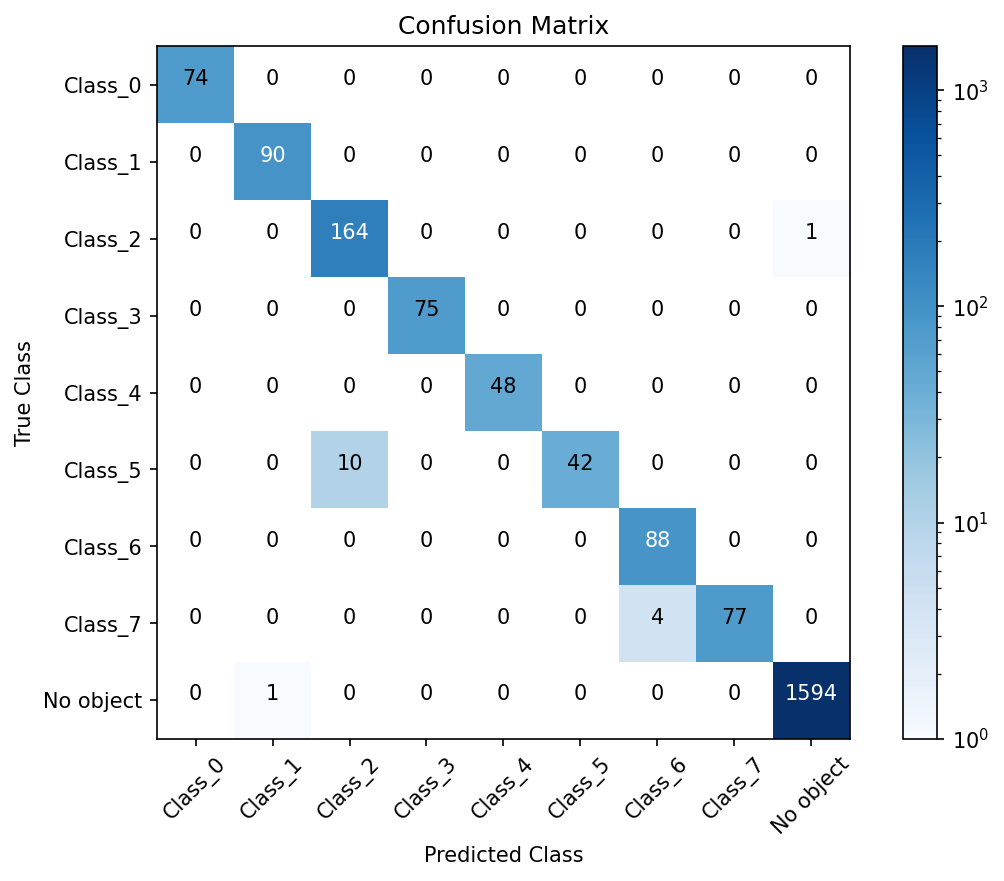
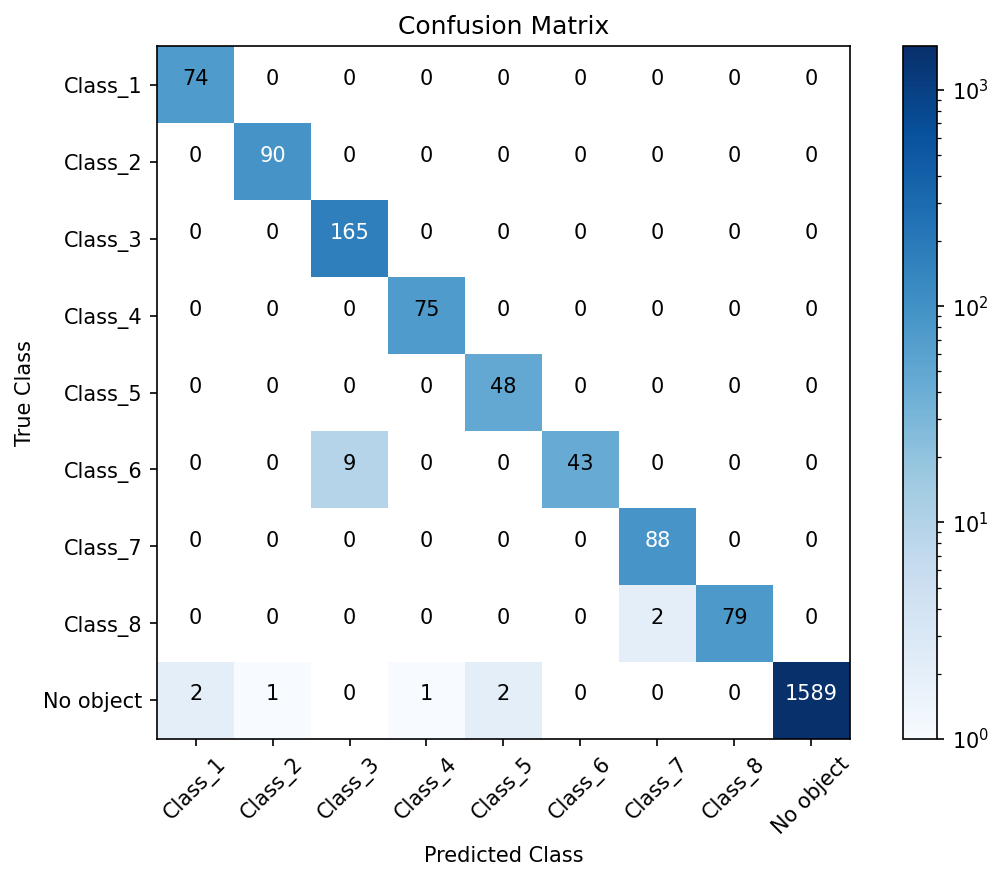
Update README.md :memo:

diff --git a/evaluation/predict.py b/evaluation/predict.py
@@ -68,8 +68,11 @@ def inference_test_imgs_qtt(model, cfg, mode):
 
             if mode == 2:
                 vis_pc(point_cloud,
-                       pred_bbox,
-                       pred_label)
+                               pred_bbox,
+                               pred_label)
+                t = input("Press Enter to continue, or 'q' to quit")
+                if(t.strip().lower() == 'q'):
+                    return
 
         try:
             data = next(data_iter)
@@ -132,7 +135,7 @@ def inference_test_imgs_qtt(model, cfg, mode):
     plt.colorbar()
     
     # Add class labels
-    class_names = [f'Class_{int(i)}' if i < num_classes else 'No object' for i in all_classes]
+    class_names = [f'Class_{int(i)+1}' if i < num_classes else 'No object' for i in all_classes]
     tick_marks = np.arange(n_classes)
     plt.xticks(tick_marks, class_names, rotation=45)
     plt.yticks(tick_marks, class_names)

diff --git a/eval.py b/eval.py
@@ -11,11 +11,11 @@ def main(cfg: DictConfig):
     
     eval_mode = cfg.eval_mode
     if eval_mode == 0:
-        print("\nChoose options")
-        print("1. Visualize in bird's eye view")
-        print("2. Visualize in 3D point cloud")
-        print("3. Only quantitative evaluation mode\n")
-        eval_mode = int(input("Select (1/2/3): "))
+        print("\n평가 모드를 선택해 주세요")
+        print("1. Bird's eye view(조감도)로 시각화하기")
+        print("2. 3D로 시각화하기")
+        print("3. 정량 평가만 진행하기\n")
+        eval_mode = int(input("1/2/3 중 하나 입력: "))
     print("")
     
     if eval_mode in [1, 2, 3]:

diff --git a/README.md b/README.md
@@ -1,6 +1,10 @@
-# PER-roadsign_detector
+# Roadsign Detector
 
-## Environments
+> 모델 논문: [PointPillars: Fast Encoders for Object Detection from Point Clouds](https://openaccess.thecvf.com/content_CVPR_2019/papers/Lang_PointPillars_Fast_Encoders_for_Object_Detection_From_Point_Clouds_CVPR_2019_paper.pdf)
+
+## 개발 환경
+
+아래 환경은 필수적인 환경은 아니며, 모델 학습 시에는 적당한 버전의 Python과 CUDA 코드를 돌릴 수 있는 GPU, 모델 평가 시에는 Python만 있어도 됩니다.
 
 - Ubuntu 20.04.6 LTS (64-bit)
 - 12th Gen Intel® Core™ i7-12700 × 20
@@ -8,46 +12,96 @@
 - Python 3.8.20
 - CUDA 12.8
 
-## How to run
+## 학습/평가 전 준비 과정
 
-### 1. Install dependencies
+### 1. 필수 패키지 설치
 
-> Virtual environment recommended (e.g. conda)
+> [Anaconda](https://www.anaconda.com/docs/getting-started/anaconda/install)와 같은 가상환경 도구를 사용하는 것을 추천합니다.
 
 ```bash
 pip install -r requirements.txt
 ```
 
-### 2. Setup
+아래 코드를 가상환경 터미널에 붙여넣기하여 설치 여부를 확인하실 수 있습니다.
+
+```bash
+python -c 'import pytorch_lightning as pl; print(f"PyTorch Lightning version: {pl.__version__}"); import torch; print(f"PyTorch version: {torch.__version__}"); print(f"CUDA available: {torch.cuda.is_available()}"); import hydra; print(f"Hydra version: {hydra.__version__}"); '
+```
+
+아래처럼 각 모듈의 버전이 정상적으로 나온다면 성공입니다. (버전이 조금씩 다르더라도 괜찮습니다.)
+
+```
+PyTorch Lightning version: 2.4.0
+PyTorch version: 2.4.1+cu121
+CUDA available: True
+Hydra version: 1.3.2
+```
+
+### 2. CUDA 코드 빌드
+
+학습 및 평가 시에 사용하는 코드 중 일부분이 성능상의 이유로 `.cu(.cpp)` 파일로 작성되어있습니다. 이를 파이썬 코드에서 사용할 수 있도록 빌드하는 과정이 필요합니다.
 
 ```bash
 python setup.py build_ext --inplace
 ```
 
-### 3. Create train data
+실행 후 `pointpillars/ops` 아래에 `voxel_op.~~~.so` 파일이 생성되었다면 성공입니다.
 
-Modify [collect_pcd_data.py](./collect_pcd_data.py) to your `.pcd` files' path and run it. This script collects pcd files **recursively**, so you can just enter the root directory of all pcd files.
+## 모델 학습하기
 
-Also you can modify the ratio of train and testset. (Default: 0.2)
+> 모델 학습을 새로하지 않고, 보유한 체크포인트 파일이 있다면 바로 평가하기를 진행할 수 있습니다. `checkpoints/best.ckpt`에 가장 결과가 잘 나왔던 체크포인트를 저장해두었습니다.
 
+### 1. 학습데이터 만들기
 
-```bash
-python collect_pcd_data.py
+아래처럼 dataset이 있다고 가정합니다. `.pcd` 파일과, 라벨 데이터 파일 (`.txt`)이 같은 폴더에 들어있는 환경을 가정하고 있습니다.
+
+```
+/home/o-bard-o/LIDAR_DATA
+├── 10_binary
+│   ├── 123_1.1m.pcd
+│   ├── 123_1.1m.txt
+│   └── ...
+├── 11_binary
+│   ├── 123_1.1m.pcd
+│   ├── 123_1.1m.txt
+│   └── ... 
+├── 12_binary
+│   ├── 123_1.1m.pcd
+│   ├── 123_1.1m.txt
+│   └── ... 
 ```
 
-#### Example
+라벨 데이터의 구성은 다음 그림을 따릅니다.
 
+![alt text](figures/label_format.png)
+
+
+[collect_pcd_data.py](./collect_pcd_data.py)를 수정하여 데이터셋이 있는 폴더를 지정합니다. 본 스크립트는 해당 폴더 하위(중첩 폴더 포함)의 모든 `.pcd` 파일을 수집하므로, 최상단의 폴더 이름으로 수정하면 됩니다. 
+
+위 예시 기준으로는 아래와 같이 수정하시면 됩니다.
 ```py
 # collect_pcd_data.py
 root_dir = '/home/o-bard-o/LIDAR_DATA'
 ...
 ```
 
-### 4. Modify config files
+> `~`(Home 디렉토리)는 사용할 수 없으므로, 해당 데이터 폴더의 전체 절대경로를 입력해주셔야 합니다.
 
-Modify [pcd.yaml](./configs/data/datasets/pcd.yaml)
+수정 후 다음을 실행합니다.
 
-The recommended structure's like below.
+```bash
+python collect_pcd_data.py
+```
+
+실행 후 지정한 폴더 아래에 
+
+- train_set.pkl
+- val_set.pkl
+- test1_set.pkl
+- test2_set.pkl
+- test3_set.pkl
+
+와 같은 파일들이 생겼다면 성공입니다.
 
 ```
 /home/o-bard-o/LIDAR_DATA
@@ -67,59 +121,144 @@ The recommended structure's like below.
 └── test3_set.pkl
 ```
 
-`~`(Home directory) doesn't work. You should enter the full absolute path.
+### 2. config 수정하기
+
+다음으로, [pcd.yaml](./configs/data/datasets/pcd.yaml)을 수정합니다. 
+
+학습데이터 만들기에서 사용한 폴더명을 그대로 사용하시면 됩니다.
 
 ```yaml
 dataset_root_dir: /home/o-bard-o/LIDAR_DATA
 ```
 
-### 5. Train
+### 3. 학습하기
 
-```py
+아래 명령을 입력하여 학습을 시작합니다.
+
+```bash
 python train.py
 ```
 
-### 6. Evaluate
+기본적으로 epoch은 총 500번 돌게 되어있으며, 최소 20번의 epoch 실행 후 더이상 성능 개선이 이뤄지지 않는다면 멈추게 되어있습니다. (제공해주신 데이터 기준으로 약 22번 실행 후 종료되었습니다.)
 
-If you had trained the model recently, you should change the checkpoint file's path in [eval.yaml](./configs/eval.yaml)
+> Processing train data:  74%|█████████████████████▍       | 6712/9078 [00:08<00:03, 701.10files/s]
+
+
+위 과정이 종료된 후, 
+
+> Epoch 0/499 <span style="color:#6022DB;">━━</span>╺━━━━━━━━━━━━━━━━━━━━━ 48/568 0:00:21 • 0:03:55 2.21it/s
+
+이런 모양이 뜨면 성공이며, 학습 완료 후 체크포인트 파일은 `outputs/yyyy-MM-dd/HH-mm-ss/checkpoints/`에 저장되어있습니다.
+
+## 모델 평가하기
+
+만약 새로 학습시킨 체크포인트를 평가하고 싶다면 [eval.yaml](./configs/eval.yaml)에서 아래와 같이 `outputs/yyyy-MM-dd/HH-mm-ss/checkpoints/epoch_***.ckpt`로 수정하면 됩니다.
 
 ```yaml
 eval_checkpoint: /home/o-bard-o/PER-roadsign_detector/outputs/2025-07-31/19-42-26/checkpoints/epoch_017.ckpt
 ```
 
-Then, run the `eval.py`
+수정한 뒤 `eval.py`를 실행합니다.
 
 ```py
 python eval.py
 ```
 
-## How to deploy
+아래와 같은 글씨가 떴다면 원하는 모드를 선택하여 실행합니다.
 
-### 0. Environment Setup
+```
+평가 모드를 선택해 주세요
+1. Bird's eye view(조감도)로 시각화하기
+2. 3D로 시각화하기
+3. 정량 평가만 진행하기
 
-The most important thing is `TensorRT 8.5.0.3` and using official nvidia container is recommended.
+1/2/3 중 하나 입력: 
+```
 
-I used `23.03-py3`(nvcr.io/nvidia/tensorrt:23.03-py3) from [NVIDIA NGC Catalog](https://catalog.ngc.nvidia.com/orgs/nvidia/containers/tensorrt/tags).
+### 1. Bird's eye view(조감도)로 시각화하기
 
-- NVIDIA-SMI 570.133.07 (Should be installed at host device)
-- CUDA 12.1
-- cuDNN 8.8
-- TensorRT 8.5.0.3
-- Python 3.8.10
+`Inference Image (ctrl + click)`
 
-### 1. Create onnx file
+평가 모드 선택 후 등장하는 위 텍스트에 마우스를 대고 컨트롤 + 클릭을 하면 아래와 같은 이미지를 볼 수 있습니다. (직접 [test_infer.png](test_infer.png)를 켜고 보셔도 무방합니다)
+
+![alt text](figures/test_infer.png)
+
+여기에서 빨간 사각형이 실제 박스의 위치이고, 노란 사각형이 추론을 통해 얻어낸 박스의 위치입니다. 엔터를 누를 때마다 다음 프레임으로 넘어가게 됩니다.
+
+Ctrl+C 를 눌러 프로그램을 중단할 수 있습니다.
+
+### 2. 3D로 시각화하기
+
+2번을 선택하면 테스트데이터 로딩 후 자동으로 3d 화면이 뜨게 됩니다. 
+
+편의상 일정 반사율 이상의 점만 표시하였고, 마우스 좌클릭-드래그와 휠클릭-드래그로 이동하며 보실 수 있습니다.
+
+**q**를 눌러 화면을 닫을 수 있고, 엔터를 눌러 다음 프레임으로 넘어갈 수 있습니다.
+
+Ctrl+C 를 눌러 프로그램을 중단할 수 있습니다.
+
+### 3. 정량 평가만 진행하기
+
+3번을 선택하면 사용자와의 상호작용없이 테스트셋을 모두 평가합니다.
+
+그 결과로 다음 세 개의 그래프가 생성되게 됩니다.
+
+#### Confusion Matrix(혼동 행렬)
+
+![alt text](figures/confusion_matrix.png)
+
+x축이 추론한 클래스이고, y축이 실제 클래스입니다.
+
+각 숫자는 실제 클래스가 Class_y일 때 Class_x로 추론한 개수를 나타내며, 대각선에 밀집해 분포할 수록 정확도가 높은 모델입니다.
+
+#### Distance Histogram
+
+![alt text](figures/distance_histogram.png)
+
+이 그래프는 실제 박스의 중심 위치와, 추론을 통해 얻어낸 박스의 중심위치가 얼마나 떨어져있는지를 의미합니다.
+
+더 왼쪽으로 치우쳐 있을수록, x축의 단위가 작을수록 좋은 모델입니다.
+
+#### Score Histogram
+
+![alt text](figures/score_histogram.png)
+
+본 모델은 일정 이하의 score라면 화면상에 객체가 없다고 판단합니다.
+
+따라서, 실제로 객체가 없는 데이터가 테스트셋에 있을 때, score를 최대한 작게, 실제 객체가 있다면 최대한 크게하는 것이 유리합니다. 
+
+Score Histogram은 이 분포를 나타내주며, 양쪽에 치우쳐 있을수록, 두 봉우리의 경계가 명확할 수록 좋은 모델입니다.
+
+## Troubleshooting
+
+```
+torch.OutOfMemoryError: CUDA out of memory. Tried to allocate 454.00 MiB. GPU 0 has a total capacity of 7.66 GiB of which 269.25 MiB is free. Process 2157851 has 5.39 GiB memory in use. Including non-PyTorch memory, this process has 1.13 GiB memory in use. Of the allocated memory 955.86 MiB is allocated by PyTorch, and 14.14 MiB is reserved by PyTorch but unallocated. If reserved but unallocated memory is large try setting PYTORCH_CUDA_ALLOC_CONF=expandable_segments:True to avoid fragmentation.  See documentation for Memory Management  (https://pytorch.org/docs/stable/notes/cuda.html#environment-variables)
+```
+
+학습 코드를 돌리는 중에 평가 코드를 돌리거나 등의 작업을 하면 GPU의 메모리가 부족하여 멈추게 됩니다. 하나를 중지시키면 정상적으로 작동합니다.
+
+
+## ONNX, TensorRT 빌드
+
+### 0. 환경 세팅
+
+TensorRT의 버전을 반드시 8.5 (8.5.0.3)으로 맞추는 것이 제일 중요합니다. NVIDIA의 공식 도커 컨테이너를 사용하여 설정하는 것을 추천합니다.
+
+개발 시에는 [NVIDIA NGC Catalog](https://catalog.ngc.nvidia.com/orgs/nvidia/containers/tensorrt/tags)의 `23.03-py3`(nvcr.io/nvidia/tensorrt:23.03-py3)을 사용하였습니다.
+
+### 1. ONNX 생성
 
 ```bash
 python export_pointpillars.py
 ```
 
-### 2. Build TensorRT Engine from onnx
+### 2. TensorRT Engine 추출
 
 ```bash
 trtexec --onnx=final.onnx --saveEngine=final.trt
 ```
 
-### 3. Test inference
+### 3. trt 파일 테스트
 
 ```bash
 python trt_inference.py --trt=final.trt --pcd=sample/111105_test_05234.pcd
